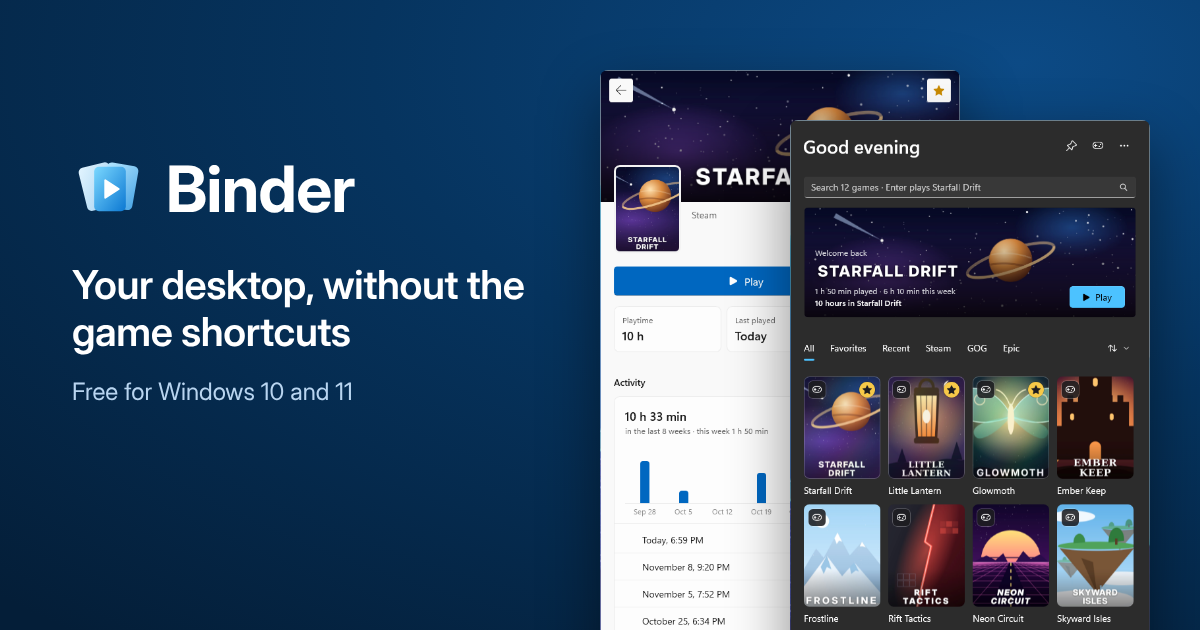
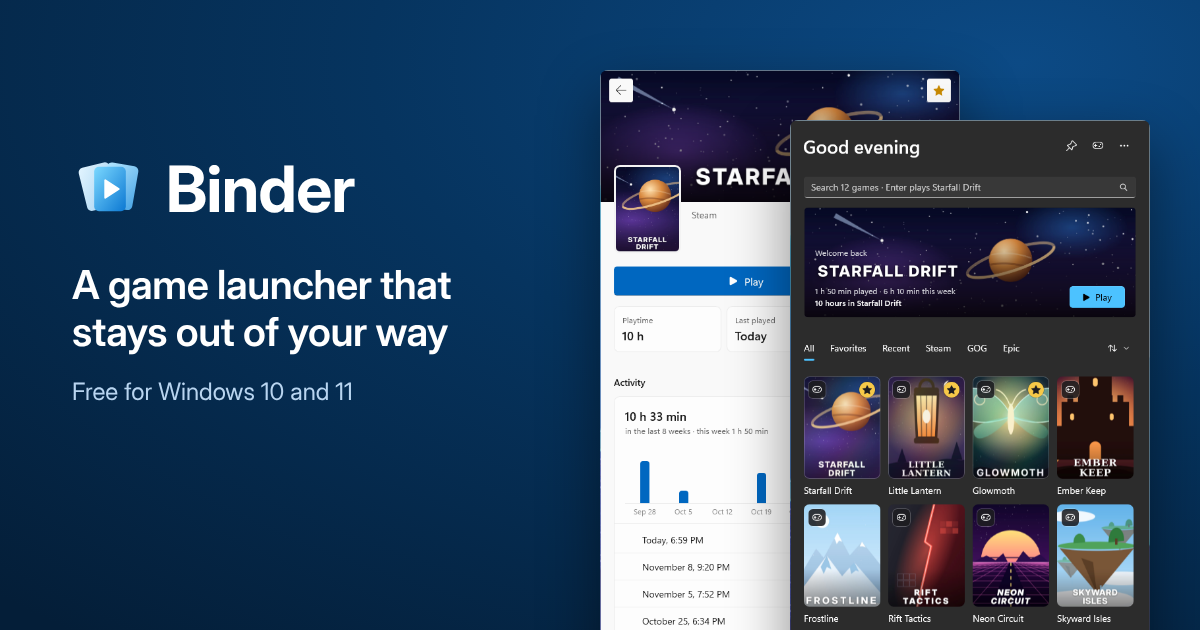
Website: the headline is now "A game launcher that stays out of your way" (page and link preview)
Docs-Unchanged: only the home page's headline changes

Claude-Session: https://claude.ai/code/session_013NHTd2W3i2smpk8FchwJ2Q

Changed region(s): [[0.0617, 0.4222, 0.4317, 0.573]]

diff --git a/site/index.html b/site/index.html
@@ -12,7 +12,7 @@
   <meta property="og:image" content="https://jannisjostbot.github.io/binder/og-image.png">
   <meta property="og:image:width" content="1200">
   <meta property="og:image:height" content="630">
-  <meta property="og:image:alt" content="Binder's window with game covers, next to the words: Your desktop, without the game shortcuts.">
+  <meta property="og:image:alt" content="Binder's window with game covers, next to the words: A game launcher that stays out of your way.">
   <meta name="twitter:card" content="summary_large_image">
   <meta name="color-scheme" content="light dark">
   <link rel="icon" href="logo.svg" type="image/svg+xml">
@@ -182,7 +182,7 @@
             <i class="window-min"></i><i class="window-max"></i><i class="window-close"></i>
           </div>
           <div class="window-body">
-            <h1 class="h1">Your desktop, without the game shortcuts</h1>
+            <h1 class="h1">A game launcher that stays out of your way</h1>
             <p class="hero-lead">Binder keeps the games from Steam, Epic, GOG, the other launchers and your desktop shortcuts in one panel by the clock. Click a cover to play. While you play, Binder closes.</p>
             <div class="hero-actions">
               <a href="#download" class="button button-primary"><svg aria-hidden="true" width="16" height="16" viewBox="0 0 24 24" fill="none" stroke="currentColor" stroke-width="2" stroke-linecap="round" stroke-linejoin="round"><path d="M12 4v11"></path><path d="M7 10.5l5 5 5-5"></path><path d="M5 20h14"></path></svg>Download for Windows</a>
